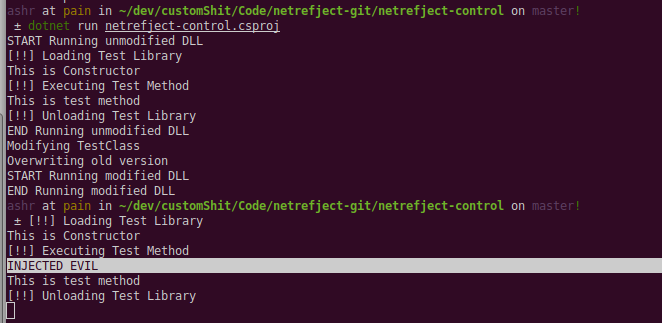
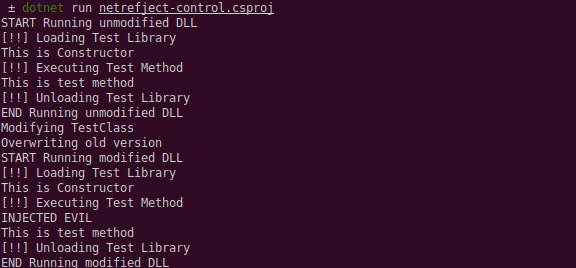
Console messages sequential now :/

Changed region(s): [[0.0, 0.0, 1.0, 1.0]]

diff --git a/netrefject-control/startup.cs b/netrefject-control/startup.cs
@@ -56,7 +56,8 @@ public static class Startup
         psi = new ProcessStartInfo("dotnet");
         psi.WorkingDirectory = "../testconsole";
         psi.Arguments = "run --no-build testconsole.csprj";
-        Process.Start(psi);
+        var p2 = Process.Start(psi);
+        p2.WaitForExit();
         Console.WriteLine("END Running modified DLL");
         /*
         Proper stuff commented while I fight with the reference shyze
